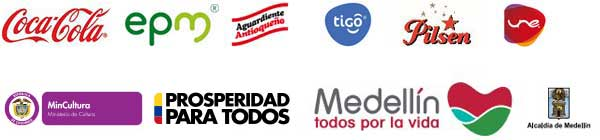
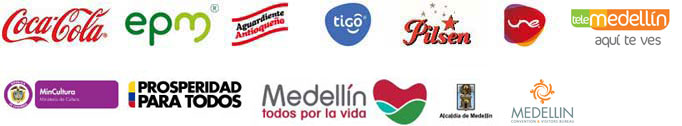
Se corrigieron los detalles de estilos resaltados en la reunión del viernes 11 de julio con la Alcaldía

diff --git a/wp-content/themes/feria/style.css b/wp-content/themes/feria/style.css
@@ -99,7 +99,7 @@ div.container-fluid.nav-container {
 }
 
 #cabezoteAlcaldia {
-	width:80%;
+	width:1014px;
 	height:120px;
 	background-color:#FFF;
 	margin:0 auto;
@@ -230,7 +230,10 @@ div.container-fluid.nav-container {
 	float: right;
 	margin-top: -90px;
 }
-.fb-share-button{}
+.fb-share-button{
+	vertical-align: top;
+	margin-right: 4px;
+}
 .g-plus{}
 .twitter-share-button{}
 
@@ -1522,19 +1525,21 @@ footer{
 	}
 .patrocinadores{
 	text-align: center;
-	width: 61%;
+	width: 100%;
 	margin: 15px auto 0 auto;
 	overflow: auto;
-
+}
+#inner-footer span{
+	font-size: 18px;
 }
 .titulo-patrocinadores{
 	display: block;
 	margin: 15px 0 0 0;
 }
-.patrocinadores a{
+.patrocinadores a, .apoyan a, .organizadores a{
 	opacity: 0.7;
 }
-.patrocinadores a:hover{
+.patrocinadores a:hover,  .apoyan a:hover, .organizadores a:hover{
 	opacity: 1.0;
 }
 .cocacola{
@@ -1579,28 +1584,42 @@ footer{
 	display: block;
 	text-indent: -9999px;
 }
-.titulo-organizadores{
+.tm{
+	background: url(images/patrocinadores.jpg) no-repeat -565px 0px;	
+	height: 60px;
+	width: 105px;
+	display: block;
+	text-indent: -9999px;
+}
+.titulo-organizadores, .titulo-apoyan{
 	display: block;
 	clear: both;
 	margin: 15px 0 0 0;
 }
-.organizadores{
+.organizadores, .apoyan{
 	text-align: center;
-	width: 70%;
+	width: 100%;
 	margin: 15px auto 30px auto;
 	overflow: auto;
 }
 .mincultura{
 	background: url(images/patrocinadores.jpg) no-repeat 0px -77px;
-	height: 60px;
-	width: 300px;
+	height: 40px;
+	width: 242px;
 	display: block;
 	text-indent: -9999px;
 }
 .alcaldia{
-	background: url(images/patrocinadores.jpg) no-repeat -300px -77px;
+	background: url(images/patrocinadores.jpg) no-repeat -258px -77px;
 	height: 60px;
-	width: 300px;
+	width: 238px;
+	display: block;
+	text-indent: -9999px;
+}
+.bureau{
+	background: url(images/patrocinadores.jpg) no-repeat -505px -77px;
+	height: 60px;
+	width: 75px;
 	display: block;
 	text-indent: -9999px;
 }
@@ -1649,8 +1668,8 @@ footer{
 
 
 footer li {
-	float:left;
 	padding-right:10px;
+	display: inline-block;
 	}
 
 .navbar-form, .navbar-search {
@@ -2306,7 +2325,9 @@ padding: 0;
 margin: 0px auto;
 text-shadow: 0 1px 0 #ffffff;
 }
-
+#cabezoteAlcaldia{
+	width: 80%;
+}
 #cabezoteAlcaldia .corazon {
 	display:none;
 }
@@ -2500,7 +2521,7 @@ footer li{
 .organizadores{
 	width: 100%;
 }
-.titulo-organizadores, .titulo-patrocinadores{
+.titulo-organizadores, .titulo-patrocinadores, .titulo-apoyan{
 	text-align: center;
 }
 .noticiaHome{

diff --git a/wp-content/themes/feria/footer.php b/wp-content/themes/feria/footer.php
@@ -27,20 +27,31 @@
 <footer role="contentinfo" >
 
   <div id="inner-footer">
-    <span class="titulo-patrocinadores">Grandes patrocinadoes</span>
+    <span class="titulo-patrocinadores">Grandes patrocinadores:</span>
     <ul class="patrocinadores">
-     <li><a class="cocacola" href="#" target="_blank">Coca Cola</a> </li>
+     <li><a class="cocacola" href="#" target="_blank">Coca Cola</a></li>
      <li><a class="epm" href="#" target="_blank">EPM</a></li>
      <li><a class="fla" href="#" target="_blank">FLA</a></li>
      <li><a class="tigo" href="#" target="_blank">Tigo</a></li>
      <li><a class="pilsen" href="#" target="_blank">Pilsen</a></li>
      <li><a class="une" href="#" target="_blank">UNE</a></li>
+     <li><a class="tm" href="http://www.telemedellin.tv" target="_blank">Telemedellín</a></li>
    </ul>
-  <span class="titulo-organizadores">Organizan</span>
-   <ul class="organizadores">
-    <li><a class="mincultura" href="http://www.mincultura.gov.co/" target="_blank">Mincultura</a></li>
-    <li><a class="alcaldia" href="http://www.mincultura.gov.co/" target="_blank">Alcaldia</a></li>
-  </ul>
+  <div class="row-fluid content-organizadores">
+    <div class="span6">
+      <span class="titulo-apoyan">Apoyan:</span>
+       <ul class="apoyan">
+        <li><a class="mincultura" href="http://www.mincultura.gov.co/" target="_blank">Mincultura</a></li>
+      </ul>
+    </div>
+    <div class="span6">
+      <span class="titulo-organizadores">Organizan:</span>
+       <ul class="organizadores">
+        <li><a class="bureau" href="http://www.medellinconventionbureau.com/" target="_blank">Medellín Convention Bureau</a></li>
+        <li><a class="alcaldia" href="http://www.mincultura.gov.co/" target="_blank">Alcaldia de Medellín</a></li>
+      </ul>
+    </div>
+  </div>
 
 </div> <!-- end #inner-footer -->
 
